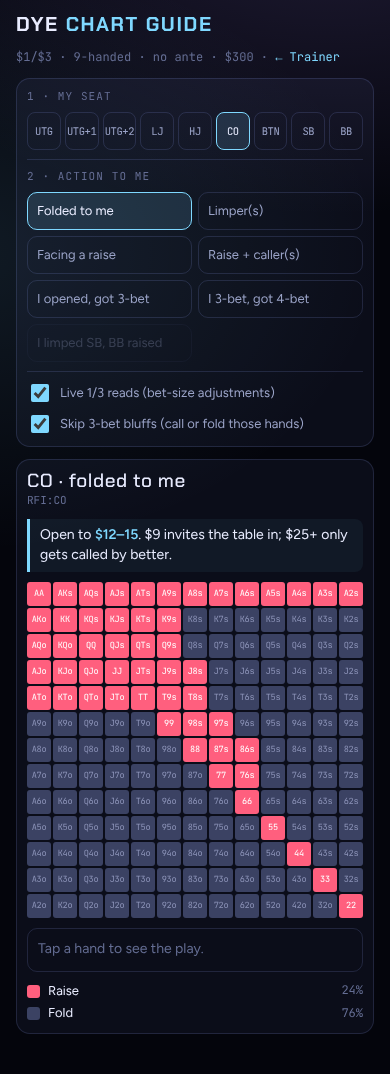
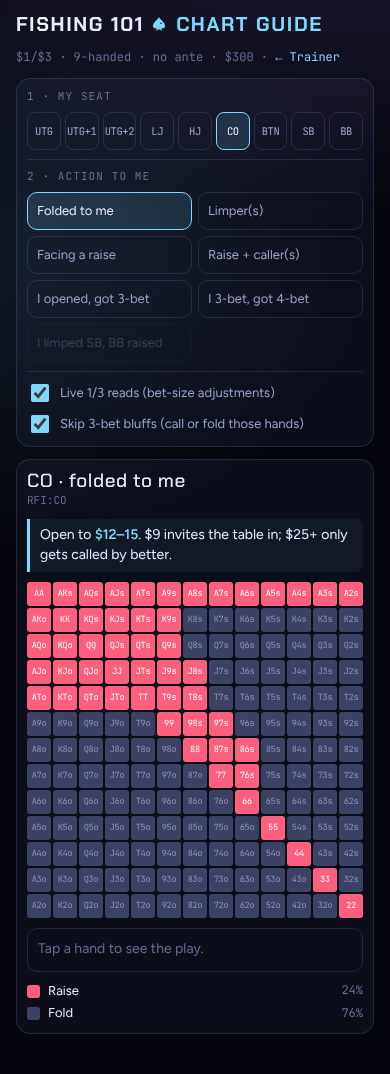
Add a fish-spade mark beside the site name
Claude-Session: https://claude.ai/code/session_018fqwghaQzufFcmDA2WAv3M

Changed region(s): [[0.0615, 0.0, 0.8308, 0.0307]]

diff --git a/index.html b/index.html
@@ -59,6 +59,8 @@ header.top{display:flex;align-items:center;justify-content:space-between;gap:12p
 .brand{display:flex;align-items:center;gap:12px;flex-wrap:wrap}
 .orb{width:30px;height:30px;border-radius:50%;background:conic-gradient(from 200deg,var(--ice),var(--plasma),var(--raise),var(--ice));box-shadow:0 0 18px rgba(127,216,255,.5);position:relative}
 .orb::after{content:"";position:absolute;inset:5px;border-radius:50%;background:var(--void)}
+.fishspade{width:.82em;height:.82em;vertical-align:-.06em;margin-left:.12em;fill:var(--ice);filter:drop-shadow(0 0 6px rgba(127,216,255,.45))}
+.fishspade .eye{fill:var(--void)}
 .brand h1{font-family:var(--display);font-weight:700;font-size:clamp(22px,3.4vw,30px);letter-spacing:.06em;margin:0;text-transform:uppercase;line-height:1}
 .brand .tagline{font-family:var(--mono);font-size:11px;color:var(--dim);letter-spacing:.08em;text-transform:uppercase}
 nav.tabs{display:flex;gap:4px;padding:4px;border-radius:12px}
@@ -450,7 +452,7 @@ input,textarea,select{font-size:16px!important}
 <canvas id="stars" aria-hidden="true"></canvas>
 <div class="wrap">
   <header class="top">
-    <div class="brand"><div class="orb" aria-hidden="true"></div><div><h1>Fishing 101</h1><div class="tagline" id="tagline">$1/$3 NLH · 9-handed · $300 stacks · no ante</div></div></div>
+    <div class="brand"><div class="orb" aria-hidden="true"></div><div><h1>Fishing 101 <svg class="fishspade" viewBox="0 0 24 24" aria-hidden="true"><path d="M12 2C17 8 21 11 21 15C21 18 18 19.5 15 18L17 22L12 20L7 22L9 18C6 19.5 3 18 3 15C3 11 7 8 12 2Z"/><circle cx="15" cy="11" r="1.1" class="eye"/></svg></h1><div class="tagline" id="tagline">$1/$3 NLH · 9-handed · $300 stacks · no ante</div></div></div>
     <div class="topright">
     <nav class="tabs glass" role="tablist">
       <button role="tab" id="tab-help" aria-selected="true" data-view="help">Intro</button>

diff --git a/chart-guide.html b/chart-guide.html
@@ -94,7 +94,7 @@ input,textarea,select{font-size:16px!important}
 <body>
 <div class="wrap">
   <header>
-    <h1>Fishing 101 <span>Chart Guide</span></h1>
+    <h1>Fishing 101 <svg class="fishspade" style="width:.8em;height:.8em;fill:#7fd8ff;vertical-align:-.05em;margin-right:.1em" viewBox="0 0 24 24" aria-hidden="true"><path d="M12 2C17 8 21 11 21 15C21 18 18 19.5 15 18L17 22L12 20L7 22L9 18C6 19.5 3 18 3 15C3 11 7 8 12 2Z"/><circle cx="15" cy="11" r="1.1" class="eye" style="fill:#04050c"/></svg> <span>Chart Guide</span></h1>
     <div class="sub">$1/$3 · 9-handed · no ante · $300 · <a href="index.html" style="color:var(--ice);text-decoration:none">&#8592; Trainer</a></div>
   </header>
 
